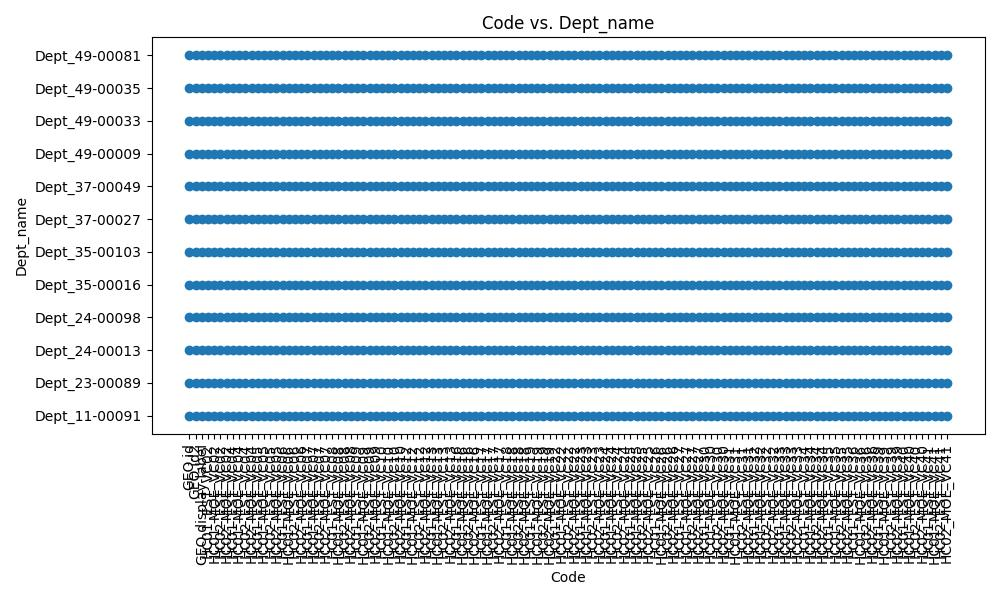
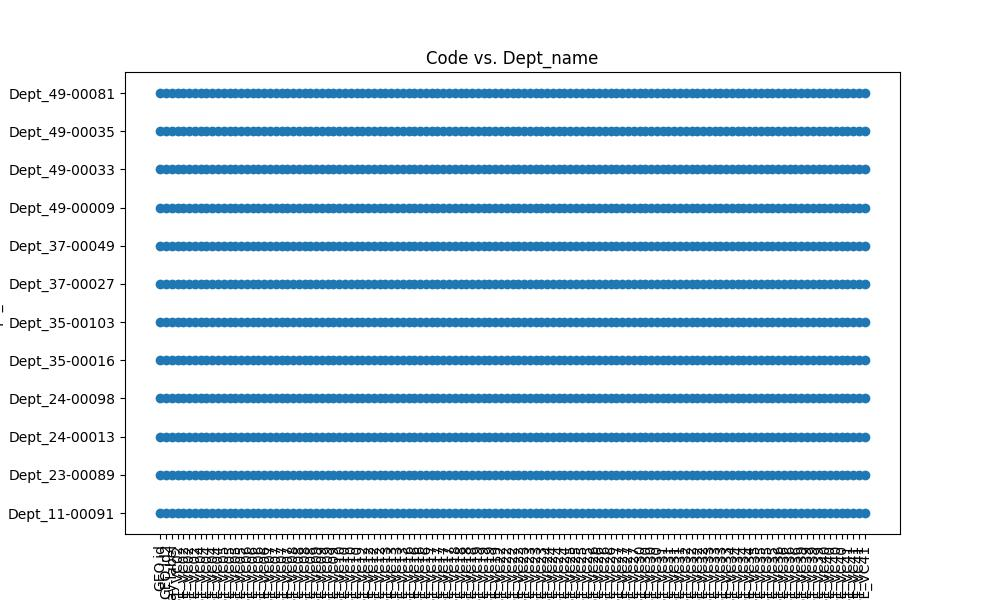
main as simple CLI for the application.

diff --git a/main.py b/main.py
@@ -1,0 +1,19 @@
+from metadata_analysis import metadata_analysis_main
+from police_report_comparison import police_report_comparison_main
+
+if __name__ == "__main__":
+    print("Welcome to the analysis file for the Policing Equity reports.")
+    print("The dataset can be found here: https://www.kaggle.com/datasets/center-for-policing-equity/data-science-for-good")
+    print("What kind of analysis should be done?")
+    print("For the analysis of the ACS report metadata type: 1")
+    print("For the comparison of the different police reports type: 2")
+    analysis_type = input()
+    
+    if analysis_type == "1":
+        metadata_analysis_main()
+        print("Finisehd - please check /metadata_analysis for results.")
+    elif analysis_type == "2":
+        police_report_comparison_main()
+        print("Finished - please check police_report_comparison for results.")
+    else:
+        print("Invalid number")

diff --git a/metadata_analysis.py b/metadata_analysis.py
@@ -85,7 +85,7 @@ def plot_features(df: pd.DataFrame, x_axis: str, y_axis: str, save_name: str):
     plt.ylabel(y_axis)
     plt.title(f'{x_axis} vs. {y_axis}')
     plt.xticks(rotation=90)
-    plt.tight_layout()
+    # plt.tight_layout()
     plt.savefig(f"metadata_analysis/{save_name}.jpg")
     # plt.show()
 

diff --git a/DATA_STRUCTURE.md b/DATA_STRUCTURE.md
@@ -6,7 +6,7 @@ The directories sometimes contain files or directories which are doubled. This w
 
 | Abbreviation | Translation | Source |
 |--------------|-------------|--------|
-| CPE | Center for Policing Equity | kaggle.com |
+| CPE | Center for Policing Equity | https://www.kaggle.com/datasets/center-for-policing-equity/data-science-for-good |
 | ACS | American Community Survey | https://www.census.gov/programs-surveys/acs |
 | HC | Housing Characteristics | https://www.census.gov/library/publications/1951/dec/hc-5.html
 | UOF | Use of Force | https://policingequity.org/images/pdfs-doc/CPE_SoJ_Race-Arrests-UoF_2016-07-08-1130.pdf | 
